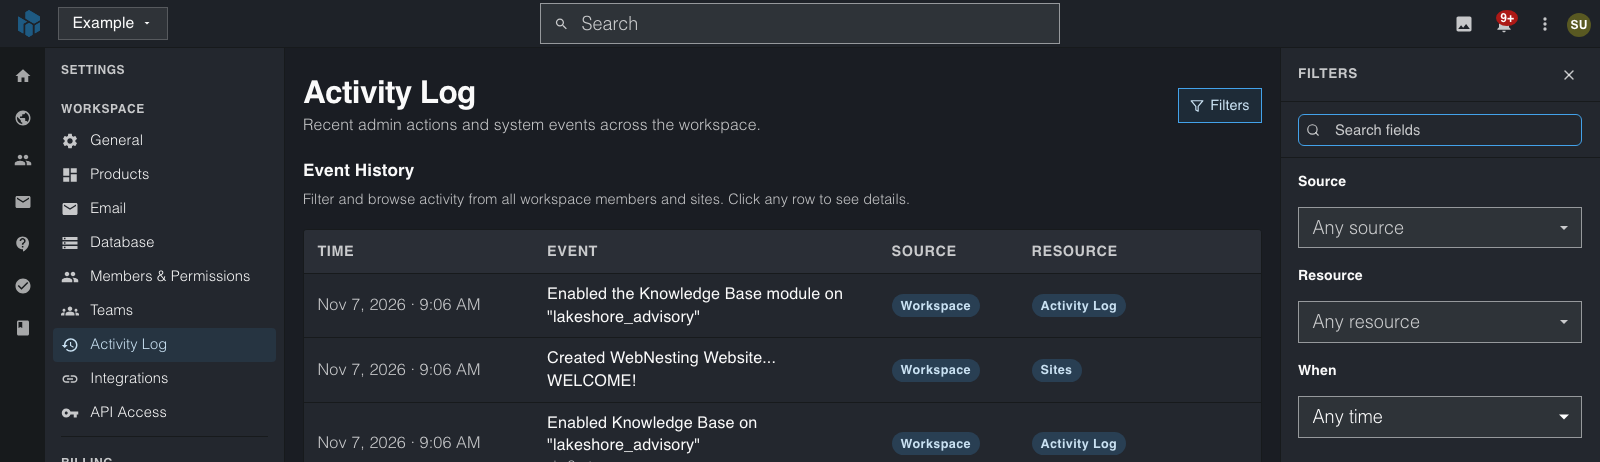
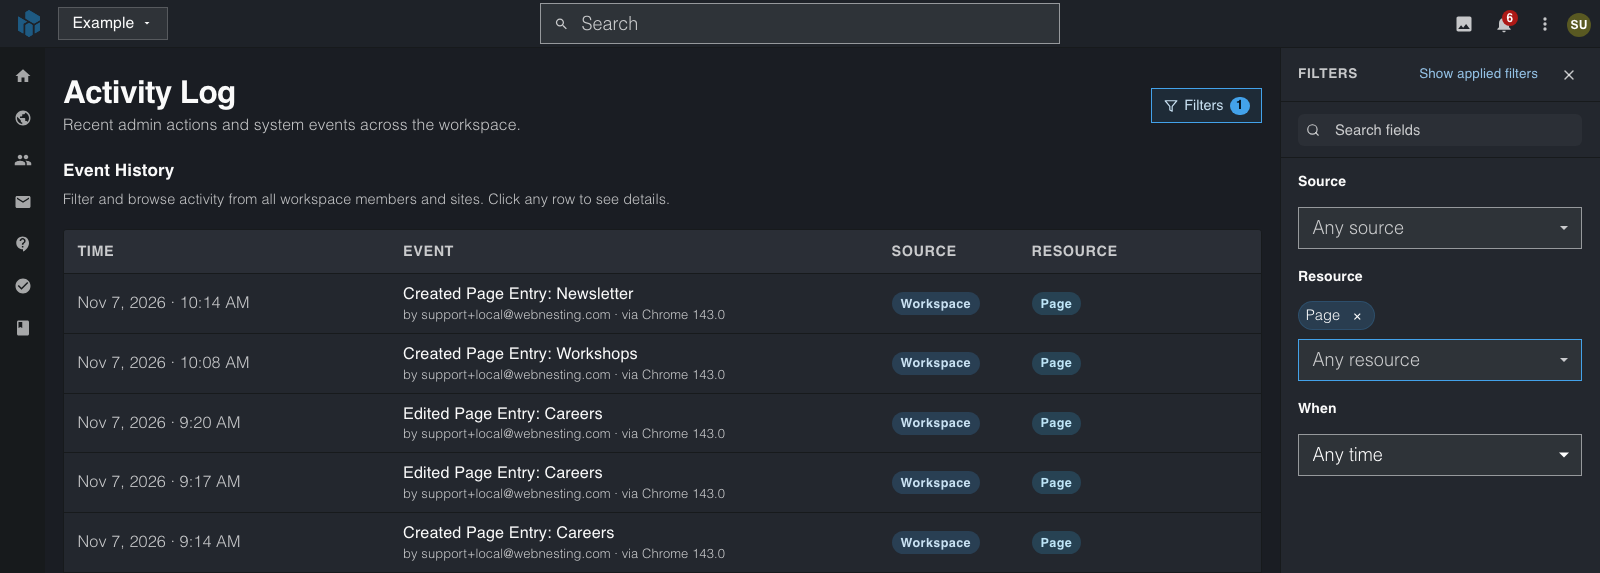
docs(dashboard): retake activity log pictures
Retook the Activity Log pictures so each shows one whole panel with an orange ring on the control the text names. Updated the alt text to match.

diff --git a/dashboard/activity-logs.md b/dashboard/activity-logs.md
@@ -1,10 +1,10 @@
 # Activity Logs
 
-**Last verified:** 2026-11-07 9:14am
+**Last verified:** 2026-11-07 10:25am
 
 Activity logs keep a record of everything that happens on your site. Every time someone makes a change -- whether it is editing a page, updating settings, or managing team members -- it is recorded in the activity log.
 
-![The Activity Log widget showing recent site changes](../images/dashboard/activity-log.png)
+![The site dashboard with the Activity Log widget circled in orange, listing recent page changes with who made them and when](../images/dashboard/activity-log.png)
 
 The Activity Log shows recent actions taken in your site's dashboard, including page edits, setting changes, and content updates.
 
@@ -75,7 +75,7 @@ The Activity Log widget on your dashboard shows the most recent entries. You can
 3. In **Filter by type**, choose **All activity**, **Page edits**, **Settings changes** or **User activity**.
 4. Click **Save Settings**.
 
-![The Activity Log Settings dialog with Number of entries and Filter by type](../images/dashboard/activity-logs-widget-settings.png)
+![The Activity Log Settings dialog with the Number of entries setting circled in orange, above Filter by type](../images/dashboard/activity-logs-widget-settings.png)
 
 > **Tip:** If you are looking for a specific change, try filtering by type first. This narrows down the list and makes it easier to find what you need.
 
@@ -102,7 +102,7 @@ In addition to workspace-level events, the log also shows activity from all your
 
 ### Viewing the Workspace Activity Log
 
-![The workspace Activity Log page with the Event History list and the Filters button](../images/dashboard/activity-logs-workspace-page.png)
+![The workspace Activity Log page with the Event History list of time, event, source and resource, and the Filters button circled in orange](../images/dashboard/activity-logs-workspace-page.png)
 
 1. Go to your **Workspace** dashboard.
 2. Click **Settings** at the bottom of the icon rail, then **Activity Log**.
@@ -127,7 +127,7 @@ The workspace activity log includes several filters to help you find specific ac
 
 To open the filters, click **Filters** at the top right of the page.
 
-![The Filters panel with Source, Resource and When](../images/dashboard/activity-logs-workspace-filters.png)
+![The Filters panel open beside the Event History list, with the Source, Resource and When choices and a Page resource filter applied](../images/dashboard/activity-logs-workspace-filters.png)
 
 Filters apply the moment you pick them, so there is nothing to submit. If you use the same combination often, click **Save as View…** in the filter panel to keep it as a named view you can return to with one click.
 
